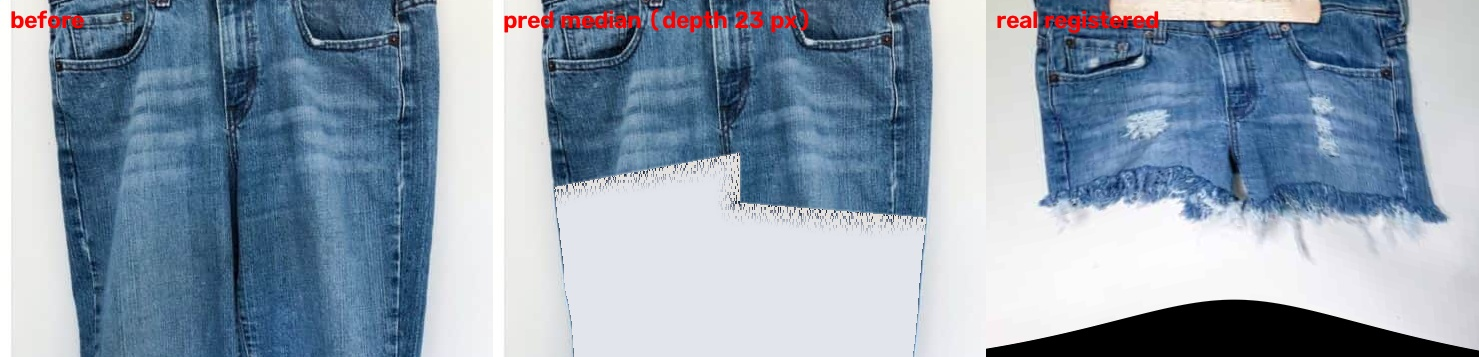
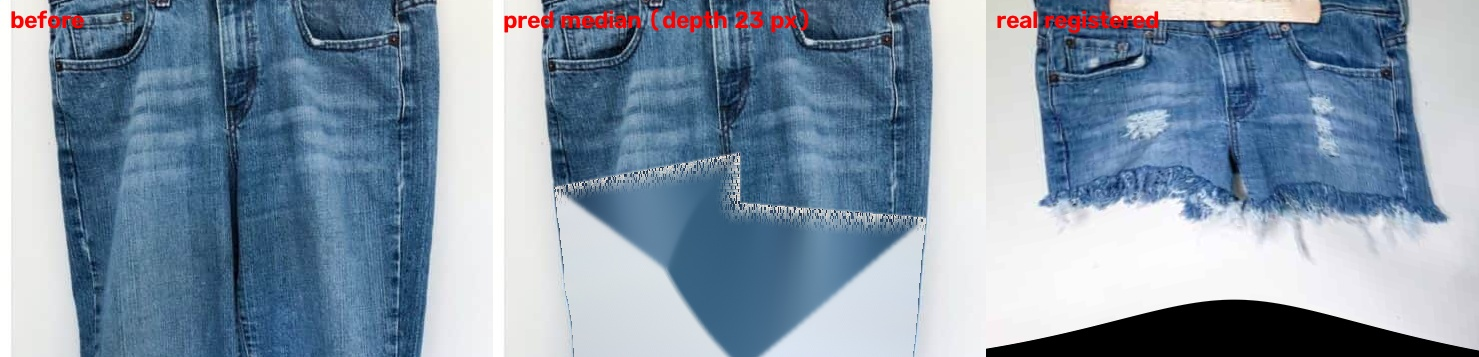
run_pair: inpainted fill; waistband gate on opened mask (hanger clips); judge sets regenerated

Changed region(s): [[0.3732, 0.4314, 0.622, 1.0]]

diff --git a/tools/run_pair.py b/tools/run_pair.py
@@ -79,8 +79,10 @@ def sane(mask, name):
         else: FAIL(f"{name}: garment touches the frame bottom (cropped photo)")
     if (ys.max() - ys.min()) < 0.25 * h: FAIL(f"{name}: garment too short in frame")
     # a whole garment has ONE waistband run near the top; two runs = a cropped pair of legs
-    top, hh = ys.min(), ys.max() - ys.min(); band = range(top, top + int(0.15 * hh))
-    widths = [(mask[y].sum(), y) for y in band]; yt = max(widths)[1]; row = np.nonzero(mask[yt])[0]
+    k = max(int(0.03 * w), 3); mo = cv2.morphologyEx(mask.astype(np.uint8), cv2.MORPH_OPEN, np.ones((k, k), np.uint8)).astype(bool)   # drop hanger hooks/clips
+    if mo.sum() < 0.5 * mask.sum(): mo = mask
+    ys2 = np.nonzero(mo)[0]; top, hh = ys2.min(), ys2.max() - ys2.min(); band = range(top, top + int(0.15 * hh))
+    widths = [(mo[y].sum(), y) for y in band]; yt = max(widths)[1]; row = np.nonzero(mo[yt])[0]
     if len(row) and (np.diff(row) > 5).sum() >= 1: FAIL(f"{name}: widest top row is not a single waistband run (legs-only crop?)")
 sane(bmask, "before"); sane(amask, "after")
 try:
@@ -113,7 +115,8 @@ ov = (rmask & bmask).sum() / max(rmask.sum(), 1)
 if ov < 0.6: FAIL(f"registration failed: only {ov:.2f} of the registered real garment lies inside the before garment")
 cb_ok = cb.get("garment_type") == "jeans"
 if not cb_ok: FAIL(f"before image is not full-length jeans (aspect says {cb.get('garment_type')})")
-bg = np.median(bf[~bmask], axis=0); cut = bf.copy(); cut[removed] = bg
+bg = np.median(bf[~bmask], axis=0)
+cut = cv2.inpaint(bf, cv2.dilate(removed.astype(np.uint8), np.ones((5, 5), np.uint8)), 7, cv2.INPAINT_TELEA); cut[~removed] = bf[~removed]   # background inpainting, not a flat fill
 depth_measured_px = np.mean([L["fringe_depth_px"] for L in legs.values() if L])
 if a.prior:
     pr = json.load(open(a.prior)); ww = abs(lmb["waist_right"][0] - lmb["waist_left"][0])

diff --git a/experiments/pairs/SUMMARY.md b/experiments/pairs/SUMMARY.md
@@ -2,15 +2,15 @@
 
 | page | title | after | status | sil IoU pred / crop / no-op | chamfer px pred / crop | edge ΔE pred / crop | fringe IoU pred / no-op |
 |---|---|---|---|---|---|---|---|
-| b630a78c19 | How To Make Jeans Into Shorts The Easy W | after_cut | ok | 0.46 / 0.46 / 0.54 | 363 / 368 | 17.5 / 17.4 | 0.02 / 0.58 |
+| b630a78c19 | How To Make Jeans Into Shorts The Easy W | after_cut | ok | 0.46 / 0.46 / 0.54 | 363 / 368 | 16.3 / 17.4 | 0.02 / 0.58 |
 | 660bef67bf | Cómo hacer shorts con jeans viejos | after_cut | FAIL: REJECT: degenerate cut: removed fraction 0.00 | | | | |
 | 85d48013a2 | Tutorial: Aus Lang mach Kurz – Jeanshose | after_cut | FAIL: REJECT: after: garment touches the frame edge (cropped photo | | | | |
-| 4bfef03bd7 | DIY Denim Shorts | Thrifted Jeans Into S | after_wash | ok | 0.77 / 0.75 / 0.29 | 17 / 22 | 22.9 / 23.3 | 0.26 / 0.04 |
-| ee4bf13a3c | Magnolia Mamas: Fashion Fix: DIY Distres | after_wash | FAIL: REJECT: before image is not full-length jeans (aspect says s | | | | |
-| 8d9f0df4ad | This summer's DIY cut-off jeans shorts-- | after_cut | ok | 0.94 / 0.94 / 0.42 | 8 / 9 | 21.4 / 21.5 | 0.11 / 0.02 |
+| 4bfef03bd7 | DIY Denim Shorts | Thrifted Jeans Into S | after_wash | ok | 0.77 / 0.75 / 0.29 | 17 / 22 | 19.5 / 23.3 | 0.26 / 0.04 |
+| ee4bf13a3c | Magnolia Mamas: Fashion Fix: DIY Distres | after_wash | FAIL: REJECT: before: widest top row is not a single waistband run | | | | |
+| 8d9f0df4ad | This summer's DIY cut-off jeans shorts-- | after_cut | ok | 0.94 / 0.94 / 0.42 | 8 / 9 | 20.3 / 21.5 | 0.11 / 0.02 |
 | 963fcdd264 | DIY; Mom Jeans to High Waisted Shorts |  | after_cut | FAIL: REJECT: before: widest top row is not a single waistband run | | | | |
 | d52a3ff876 | Under Peach Trees: D.I.Y. Jeans to Short | after_cut | FAIL: REJECT: before: widest top row is not a single waistband run | | | | |
-| 443d1d4658 | Create Kids Couture: Upcycle Old Jeans i | after_cut | ok | 0.92 / 0.92 / 0.59 | 14 / 13 | 18.7 / 18.3 | 0.14 / 0.00 |
+| 443d1d4658 | Create Kids Couture: Upcycle Old Jeans i | after_cut | ok | 0.92 / 0.92 / 0.59 | 14 / 13 | 18.2 / 18.3 | 0.14 / 0.00 |
 | 3082dfddc1 | DIY style: perfectly distressed jean sho | after_wash | FAIL: REJECT: degenerate cut: removed fraction 0.88 | | | | |
 | 22a5857a0c | Comment transformer son jeans en short - | after_cut | FAIL: REJECT: after: garment touches the frame edge (cropped photo | | | | |
 | f9c0e56308 | 7 Easy Steps to: DIY Denim Shorts - 51li | after_wash | FAIL: REJECT: degenerate cut: removed fraction 0.76 | | | | |

diff --git a/experiments/pairs/b630a78c19/NOTE.md b/experiments/pairs/b630a78c19/NOTE.md
@@ -11,8 +11,8 @@ registration residual (leave-one-landmark-out): 41.30px
 
 | system | sil IoU | chamfer | edge ΔE | fringe IoU |
 |---|---|---|---|---|
-| pred conservative | 0.459 | 366.0 | 17.4 | 0.007 |
-| pred median | 0.460 | 363.3 | 17.5 | 0.017 |
-| pred aggressive | 0.460 | 360.9 | 17.5 | 0.026 |
+| pred conservative | 0.459 | 366.0 | 15.9 | 0.007 |
+| pred median | 0.460 | 363.3 | 16.3 | 0.017 |
+| pred aggressive | 0.460 | 360.9 | 16.6 | 0.026 |
 | null:no-op | 0.536 | 296.2 | 16.4 | 0.582 |
 | null:crop-only | 0.459 | 367.7 | 17.4 | 0.000 |

diff --git a/experiments/pairs/4bfef03bd7/NOTE.md b/experiments/pairs/4bfef03bd7/NOTE.md
@@ -11,8 +11,8 @@ registration residual (leave-one-landmark-out): 42.01px
 
 | system | sil IoU | chamfer | edge ΔE | fringe IoU |
 |---|---|---|---|---|
-| pred conservative | 0.759 | 19.3 | 23.1 | 0.123 |
-| pred median | 0.767 | 16.8 | 22.9 | 0.265 |
-| pred aggressive | 0.771 | 16.1 | 22.7 | 0.338 |
+| pred conservative | 0.759 | 19.3 | 18.9 | 0.123 |
+| pred median | 0.767 | 16.8 | 19.5 | 0.265 |
+| pred aggressive | 0.771 | 16.1 | 19.9 | 0.338 |
 | null:no-op | 0.286 | 503.4 | 20.5 | 0.038 |
 | null:crop-only | 0.751 | 22.0 | 23.3 | 0.000 |

diff --git a/experiments/pairs/443d1d4658/NOTE.md b/experiments/pairs/443d1d4658/NOTE.md
@@ -11,8 +11,8 @@ registration residual (leave-one-landmark-out): 6.42px
 
 | system | sil IoU | chamfer | edge ΔE | fringe IoU |
 |---|---|---|---|---|
-| pred conservative | 0.918 | 13.6 | 18.4 | 0.068 |
-| pred median | 0.917 | 14.0 | 18.7 | 0.142 |
-| pred aggressive | 0.915 | 14.7 | 18.9 | 0.121 |
+| pred conservative | 0.918 | 13.6 | 18.0 | 0.068 |
+| pred median | 0.917 | 14.0 | 18.2 | 0.142 |
+| pred aggressive | 0.915 | 14.7 | 18.4 | 0.121 |
 | null:no-op | 0.587 | 190.6 | 21.4 | 0.005 |
 | null:crop-only | 0.918 | 13.4 | 18.3 | 0.000 |

diff --git a/experiments/pairs/8d9f0df4ad/NOTE.md b/experiments/pairs/8d9f0df4ad/NOTE.md
@@ -11,8 +11,8 @@ registration residual (leave-one-landmark-out): 31.22px
 
 | system | sil IoU | chamfer | edge ΔE | fringe IoU |
 |---|---|---|---|---|
-| pred conservative | 0.944 | 8.4 | 21.5 | 0.051 |
-| pred median | 0.945 | 8.1 | 21.4 | 0.108 |
-| pred aggressive | 0.945 | 8.1 | 21.4 | 0.159 |
+| pred conservative | 0.944 | 8.4 | 20.3 | 0.051 |
+| pred median | 0.945 | 8.1 | 20.3 | 0.108 |
+| pred aggressive | 0.945 | 8.1 | 20.4 | 0.159 |
 | null:no-op | 0.421 | 303.4 | 22.7 | 0.015 |
 | null:crop-only | 0.943 | 8.7 | 21.5 | 0.000 |

diff --git a/experiments/pairs/ee4bf13a3c/NOTE.md b/experiments/pairs/ee4bf13a3c/NOTE.md
@@ -1,3 +1,3 @@
 # PAIR — rejected
 
-before image is not full-length jeans (aspect says shorts)
+before: widest top row is not a single waistband run (legs-only crop?)
